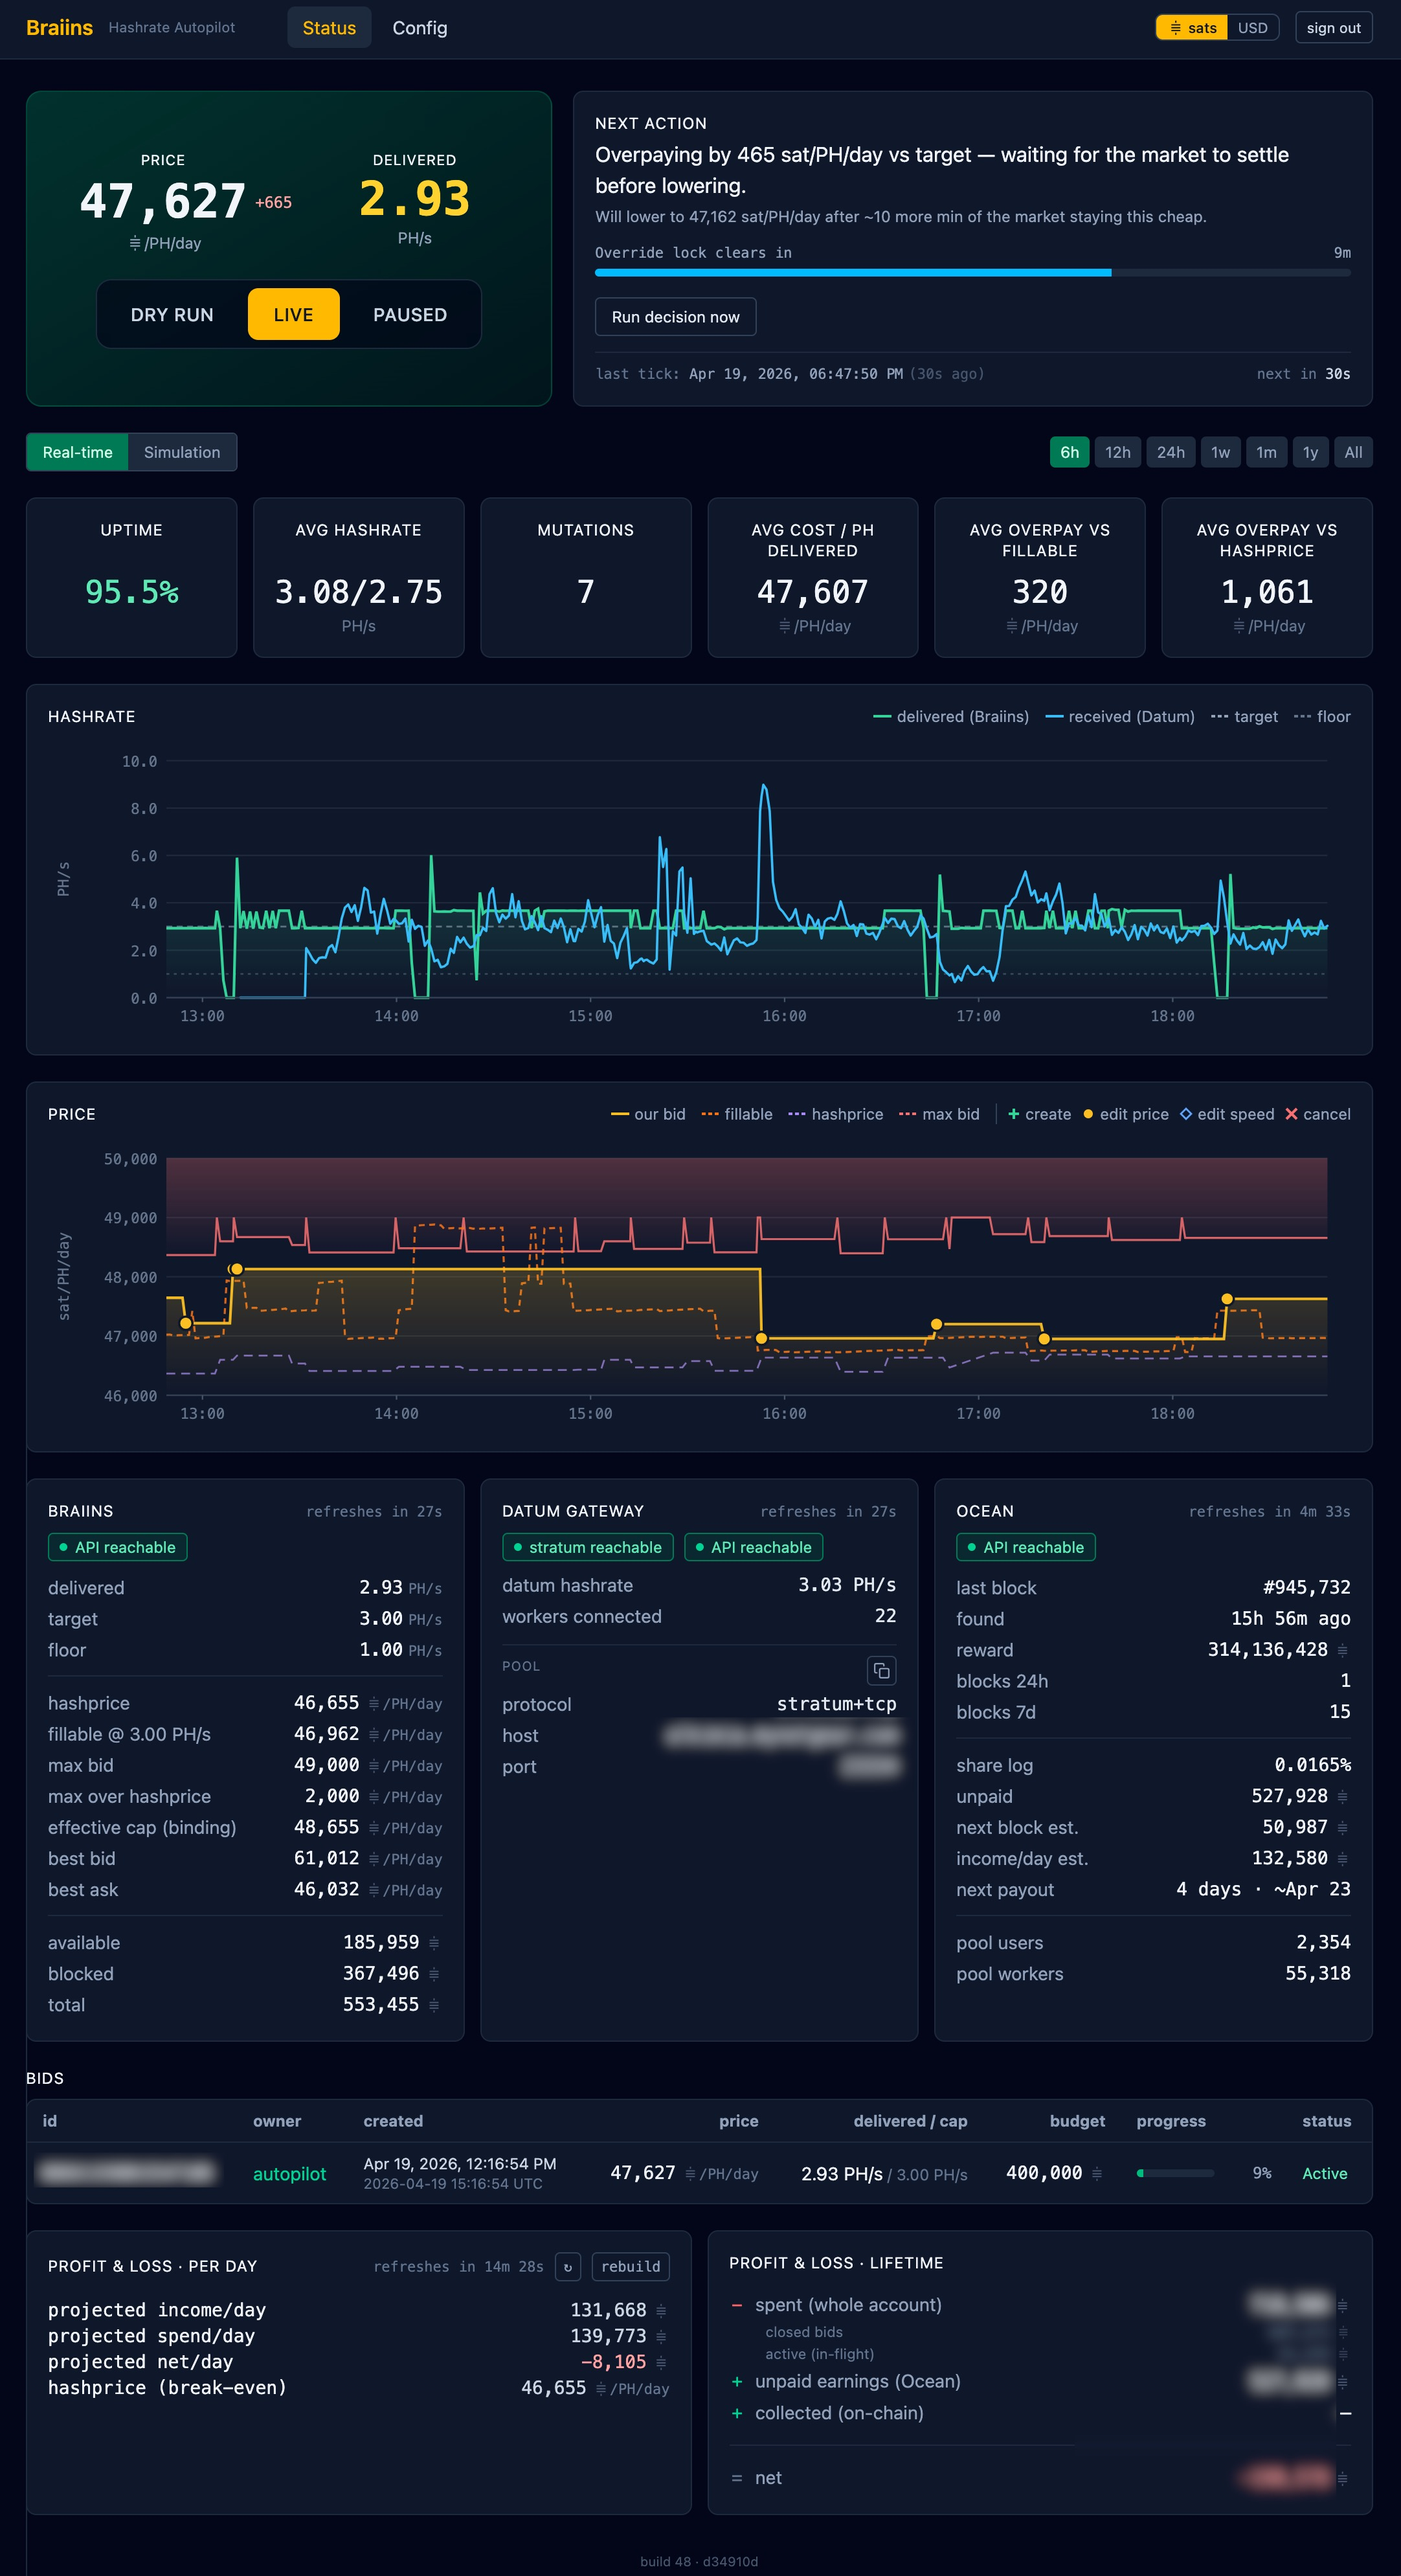
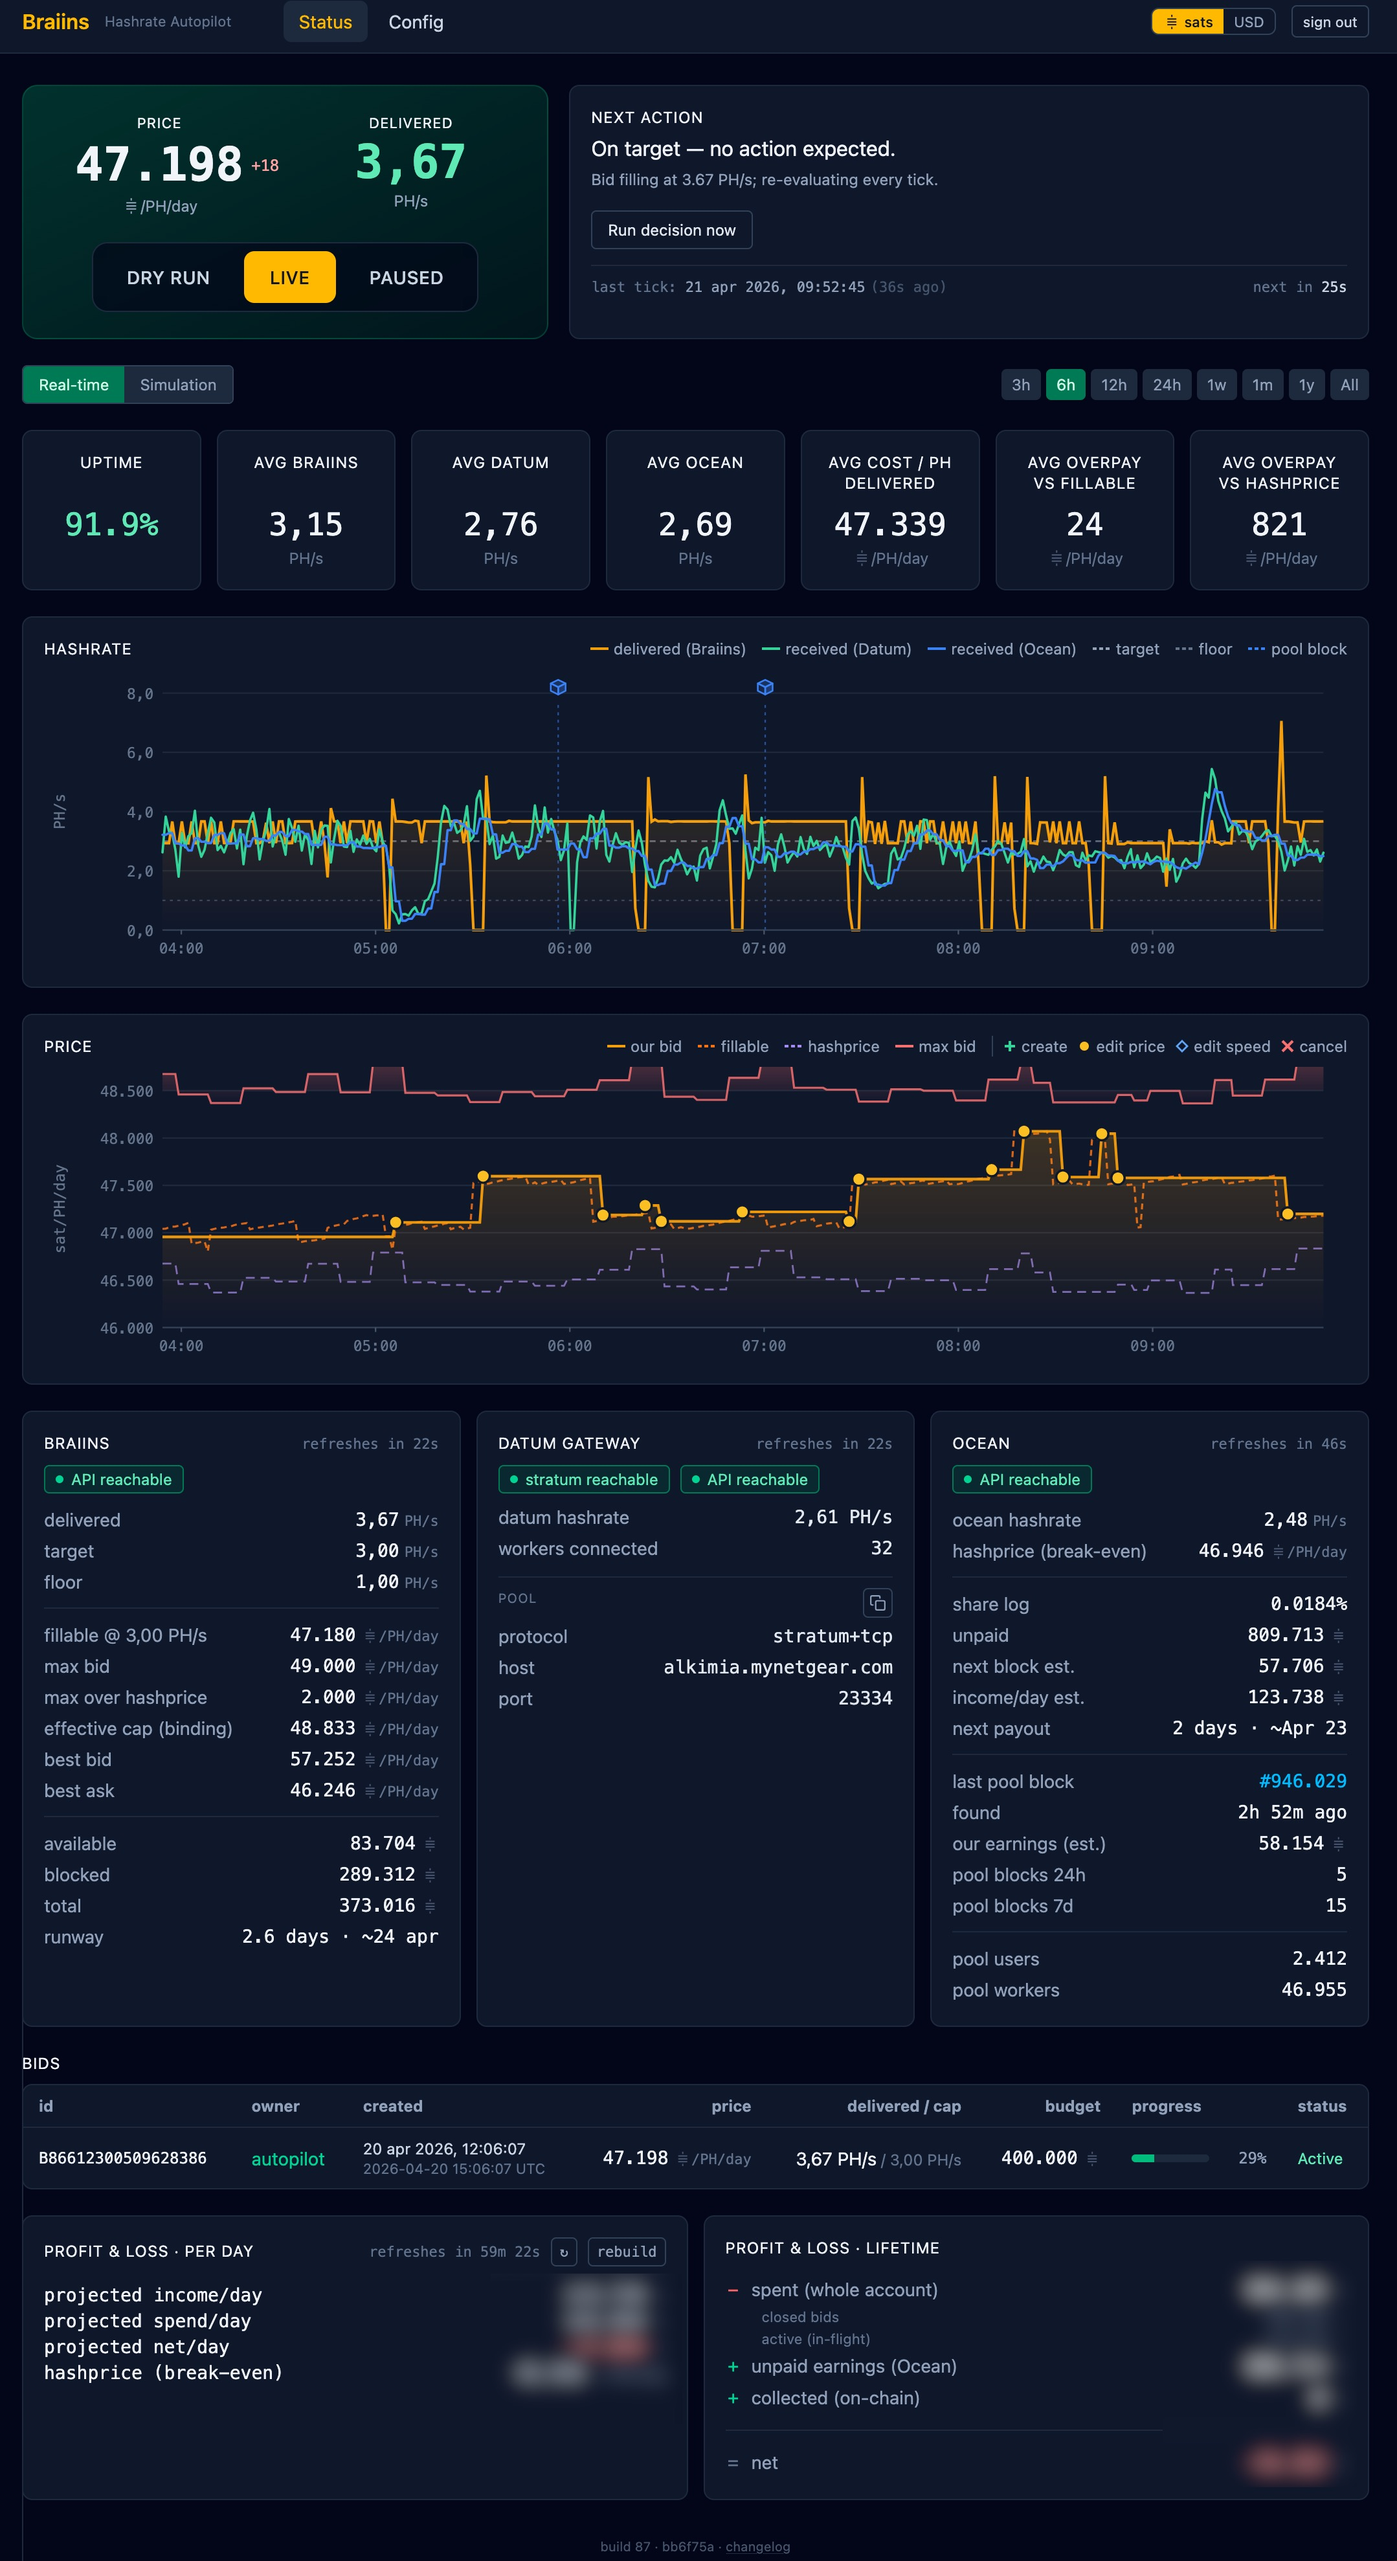
README: align with current dashboard + refresh screenshots
README drift accumulated across the v1.1.0 observability release and
the 2026-04-21 polish day. Fixed:

- Block markers are isometric cubes, blue for TIDES-credited pool
  blocks (the common case) and gold for the rare solo-lottery
  "found by us" case — not "gold markers for blocks Ocean flags as
  found by this payout address".
- Ocean integration bullet now mentions Ocean-credited hashrate as a
  first-class chart line, clickable block cubes with a configurable
  block explorer, and the estimated our-share in the tooltip.
- Stats bar description: three side-by-side avg-hashrate cards
  (Braiins / Datum / Ocean) instead of "Braiins-vs-Datum"; dropped
  "mutation count" since that card is gone.
- Simulator parameter list: "Min lower delta" → "Min delta" to match
  the symmetric-gate rename.
- Dashboard bullet: added 3h chart preset, block markers, and the
  runway forecast row on the Braiins panel.
- Config sections: added "Block explorer", clarified "Budget" is
  per-bid only (monthly ceiling was removed), renamed min-delta.

Also refreshed docs/images/{dashboard,config,simulator}.jpg.

diff --git a/README.md b/README.md
@@ -8,9 +8,10 @@ hashrate keeps landing at your own Datum-connected pool without manual babysitti
 
 The Status page is a single scroll: a hero card with the live bid price, delivered hashrate, and the DRY-RUN /
 LIVE / PAUSED switch on the left; the Next Action panel on the right explaining what the autopilot is about to do
-and when. Below that sit range-selectable hashrate and price charts overlayed with bid events, a stats strip
-(uptime, avg hashrate Braiins-vs-Datum, mutation count, cost per PH delivered, overpay vs fillable and vs hashprice),
-service panels for Braiins / Datum Gateway / Ocean, the active bids table, and per-day and lifetime P&L.
+and when. Below that sit range-selectable hashrate and price charts overlayed with bid events and block markers, a
+stats strip (uptime, avg hashrate per source — Braiins / Datum / Ocean side-by-side, cost per PH delivered, overpay
+vs fillable and vs hashprice), service panels for Braiins / Datum Gateway / Ocean, the active bids table, and
+per-day and lifetime P&L.
 
 ## Why this exists
 
@@ -63,9 +64,14 @@ Full design: [`docs/spec.md`](docs/spec.md) · [`docs/architecture.md`](docs/arc
   stops the autopilot overpaying when hashprice crashes but the fixed max still allows it.
 - **Cheap-mode scaling** — when the market price drops below a threshold relative to hashprice (break-even), the
   autopilot can automatically scale up to a higher target to capture cheap capacity.
-- **Ocean pool integration** — reads hashprice, pool earnings, time-to-payout, and recent blocks (including ones found
-  by your own share stream) from the Ocean API. Hashprice is plotted historically on the price chart; blocks that
-  Ocean flags as found by this payout address appear as gold markers on the hashrate chart.
+- **Ocean pool integration** — reads hashprice, pool earnings, time-to-payout, Ocean-credited hashrate, and recent
+  pool blocks from the Ocean API. Hashprice is plotted historically on the price chart. Ocean-credited hashrate is
+  a first-class line on the Hashrate chart alongside Braiins-delivered and Datum-received. Every TIDES-credited pool
+  block appears on the hashrate chart as an isometric cube marker — **blue** for the common case (pool block credited
+  via TIDES) and **gold** for the rare solo-lottery case where our own worker found the block. Clicking a cube opens
+  it in your configured block explorer (mempool.space by default; blockstream / blockchair / your own local explorer
+  are preset pills on the Config page). Tooltips show block height, reward / subsidy / fees, and an estimated
+  our-share for the block based on the current share_log.
 - **Datum Gateway integration (optional)** — when `datum_api_url` is configured, the daemon polls Datum's
   `/umbrel-api` each tick and records the gateway-measured hashrate alongside the Braiins-reported number. A
   sustained gap means Braiins is billing for hashrate the gateway never saw. See
@@ -79,13 +85,15 @@ Full design: [`docs/spec.md`](docs/spec.md) · [`docs/architecture.md`](docs/arc
 
   Flip the Real-time / Simulation toggle at the top of the Status page and the charts redraw against a synthetic
   bid trace computed from the current parameter bar — Overpay, Max bid, Max over hashprice, Esc. step, Esc. window,
-  Wait to lower, Min lower delta, and dampened-vs-market escalation mode. Stats recalculate in place (uptime,
-  mutation count, avg cost, avg overpay), the simulated cap line and excluded zone follow the sim `Max bid` so you
-  can see whether your ceiling would have clipped real escalations, and the "Apply to config" button writes the
-  validated set back to the live daemon once you're happy.
-- **Dashboard** — hashrate and price charts with time-range picker, bid event markers, pinned-tooltip JSON export,
-  stats bar (uptime, avg hashrate — Braiins and Datum side-by-side when Datum is on, cost metrics, mutation count),
-  split P&L panels (period and lifetime), live bid table with full IDs, and a full config editor with live reload.
+  Wait to lower, Min delta, and dampened-vs-market escalation mode. Stats recalculate in place (uptime, avg cost,
+  avg overpay), the simulated cap line and excluded zone follow the sim `Max bid` so you can see whether your
+  ceiling would have clipped real escalations, and the "Apply to config" button writes the validated set back to
+  the live daemon once you're happy.
+- **Dashboard** — hashrate and price charts with time-range picker (3h / 6h / 12h / 24h / 1w / 1m / 1y / all), bid
+  event markers, block markers, pinned-tooltip JSON export, stats bar (uptime, three side-by-side avg-hashrate cards
+  for Braiins / Datum / Ocean, and cost metrics), service panels that include a runway forecast on the Braiins card
+  (days of balance left at the current spend rate), split P&L panels (period and lifetime), live bid table with full
+  IDs, and a full config editor with live reload.
 - **BTC/USD denomination toggle** — all prices and balances can be viewed in sats or USD using a live BTC price oracle
   (CoinGecko, Coinbase, Bitstamp, or Kraken).
 - **Operator overrides** — bump price, trigger an immediate decision tick (bypasses the patience window for one
@@ -102,11 +110,12 @@ Save writes the new row and the next tick picks it up. No daemon restart needed 
 
 Sections map directly to the spec: **Hashrate targets** (including the cheap-mode scale-up), **Pool destination**
 (pool URL, worker identity, Datum stats API URL), **Pricing caps** (fixed `max_bid` plus the optional dynamic
-`max_overpay_vs_hashprice`), **Fill strategy** (overpay, min lower delta, escalation mode + step + window, wait
-before lowering), **Budget**, **Alerts & timers**, **Daemon startup** (boot mode — always dry-run / resume last /
-always live), **On-chain payouts** (payout address + Electrs-or-bitcoind backend), **Profit & Loss** spend scope,
-**BTC price oracle** (feeds the sat↔USD toggle), and **Log retention** for the append-only `tick_metrics` and
-`decisions` tables.
+`max_overpay_vs_hashprice`), **Fill strategy** (overpay, min delta, escalation mode + step + window, wait before
+lowering), **Budget** (per-bid budget), **Alerts & timers**, **Daemon startup** (boot mode — always dry-run / resume
+last / always live), **Block explorer** (template used by the block-marker cubes and the Ocean panel's last-pool-block
+link), **On-chain payouts** (payout address + Electrs-or-bitcoind backend), **Profit & Loss** spend scope, **BTC
+price oracle** (feeds the sat↔USD toggle), and **Log retention** for the append-only `tick_metrics` and `decisions`
+tables.
 
 ## Tech stack
 
